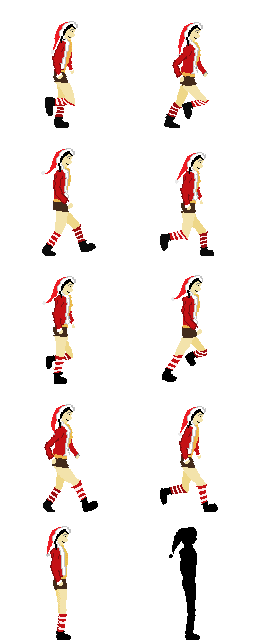
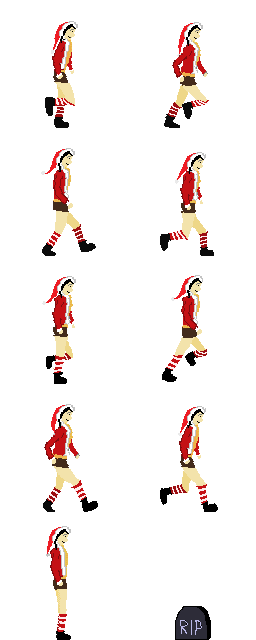
- angry monster fixed

Changed region(s): [[0.6562, 0.8125, 0.8438, 1.0]]

diff --git a/engine/combiner/wgTileMap.js b/engine/combiner/wgTileMap.js
@@ -156,7 +156,7 @@ var wgTileMap = new function()
 					tile = wgMain.first_ent.addEntity(args.tex, func);
 					gGlobals.player = tile;
 				} else
-					tile = wgMain.first_ent.addEntity(args.tex, func,1);
+					tile = wgMain.first_ent.addEntity(args.tex, func);
 				
                 tile.object.pos.x = -col*this.dimx*-1;
                 tile.object.pos.y = -row*this.dimy;
@@ -164,8 +164,9 @@ var wgTileMap = new function()
                 if(args.group)
                   tile.group = args.group;
                 
-                if(args.atype)
-                  tile.action.type = args.atype;
+                if(args.atype) {
+					tile.action.type = args.atype;
+				  }
                 
                 if(args.texinfo) {
                     tile.object.material.initAtlas(args.texinfo.cols, args.texinfo.rows, args.texinfo.width, args.texinfo.height, 0, 0);

diff --git a/game/level.js b/game/level.js
@@ -3,7 +3,14 @@ function gIniTiles() {
                                  texinfo: {cols:2, rows:2, width:256, height:256, set:0},
                                  texani: {from:0, to:3, speed:0.2, cycle:1},
                                  group: 1, 
-                                 atyp: 1
+                                 atype: 0
+                               });
+  
+  wgTileMap.addTile(14, aEnemy, { tex: "game/edtangry.png", 
+                                 texinfo: {cols:2, rows:2, width:256, height:256, set:0},
+                                 texani: {from:0, to:3, speed:0.4, cycle:1},
+                                 group: 1, 
+                                 atype: 1
                                });
   
   wgTileMap.addTile(1, aSolid, {}, {tex: "game/worldatlas.png",
